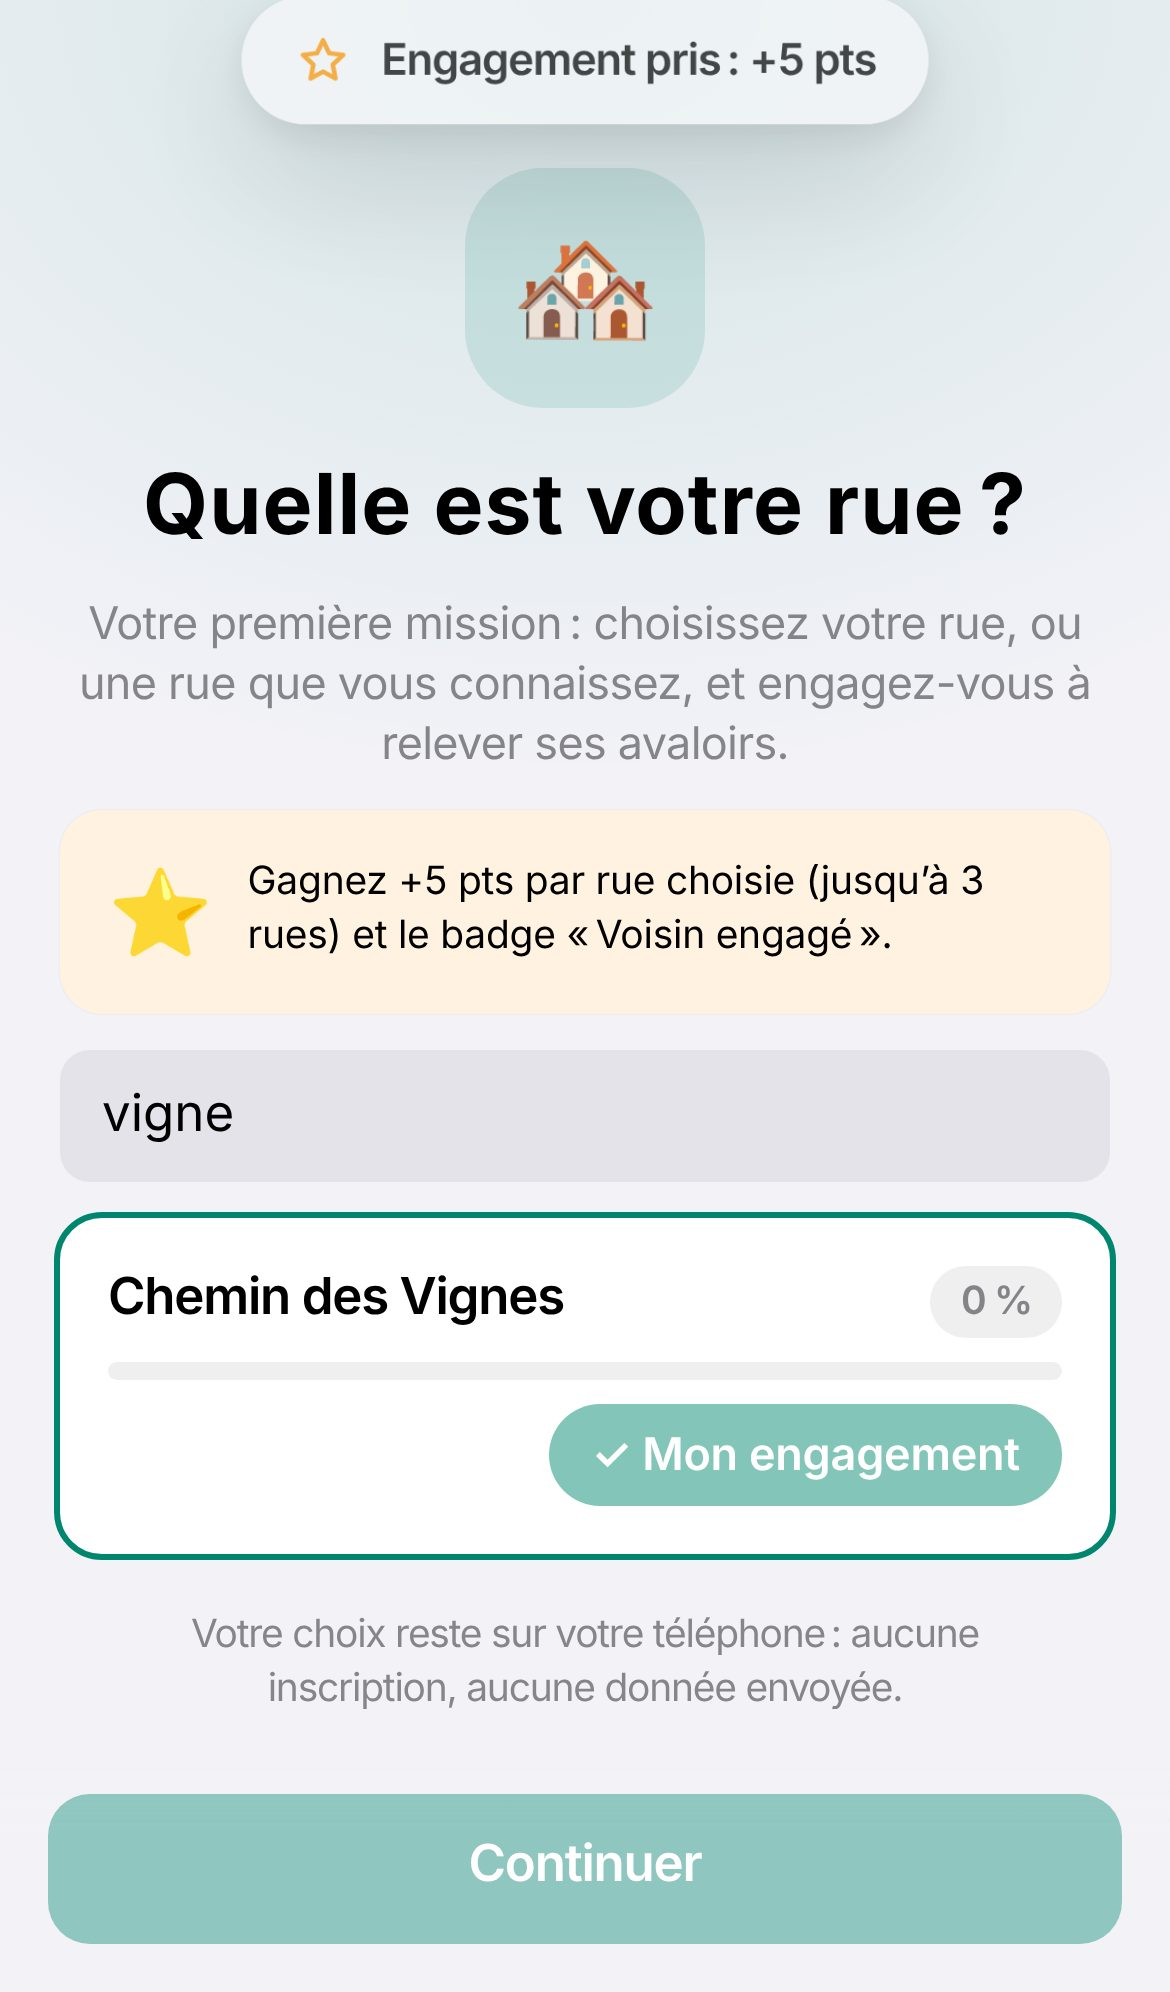
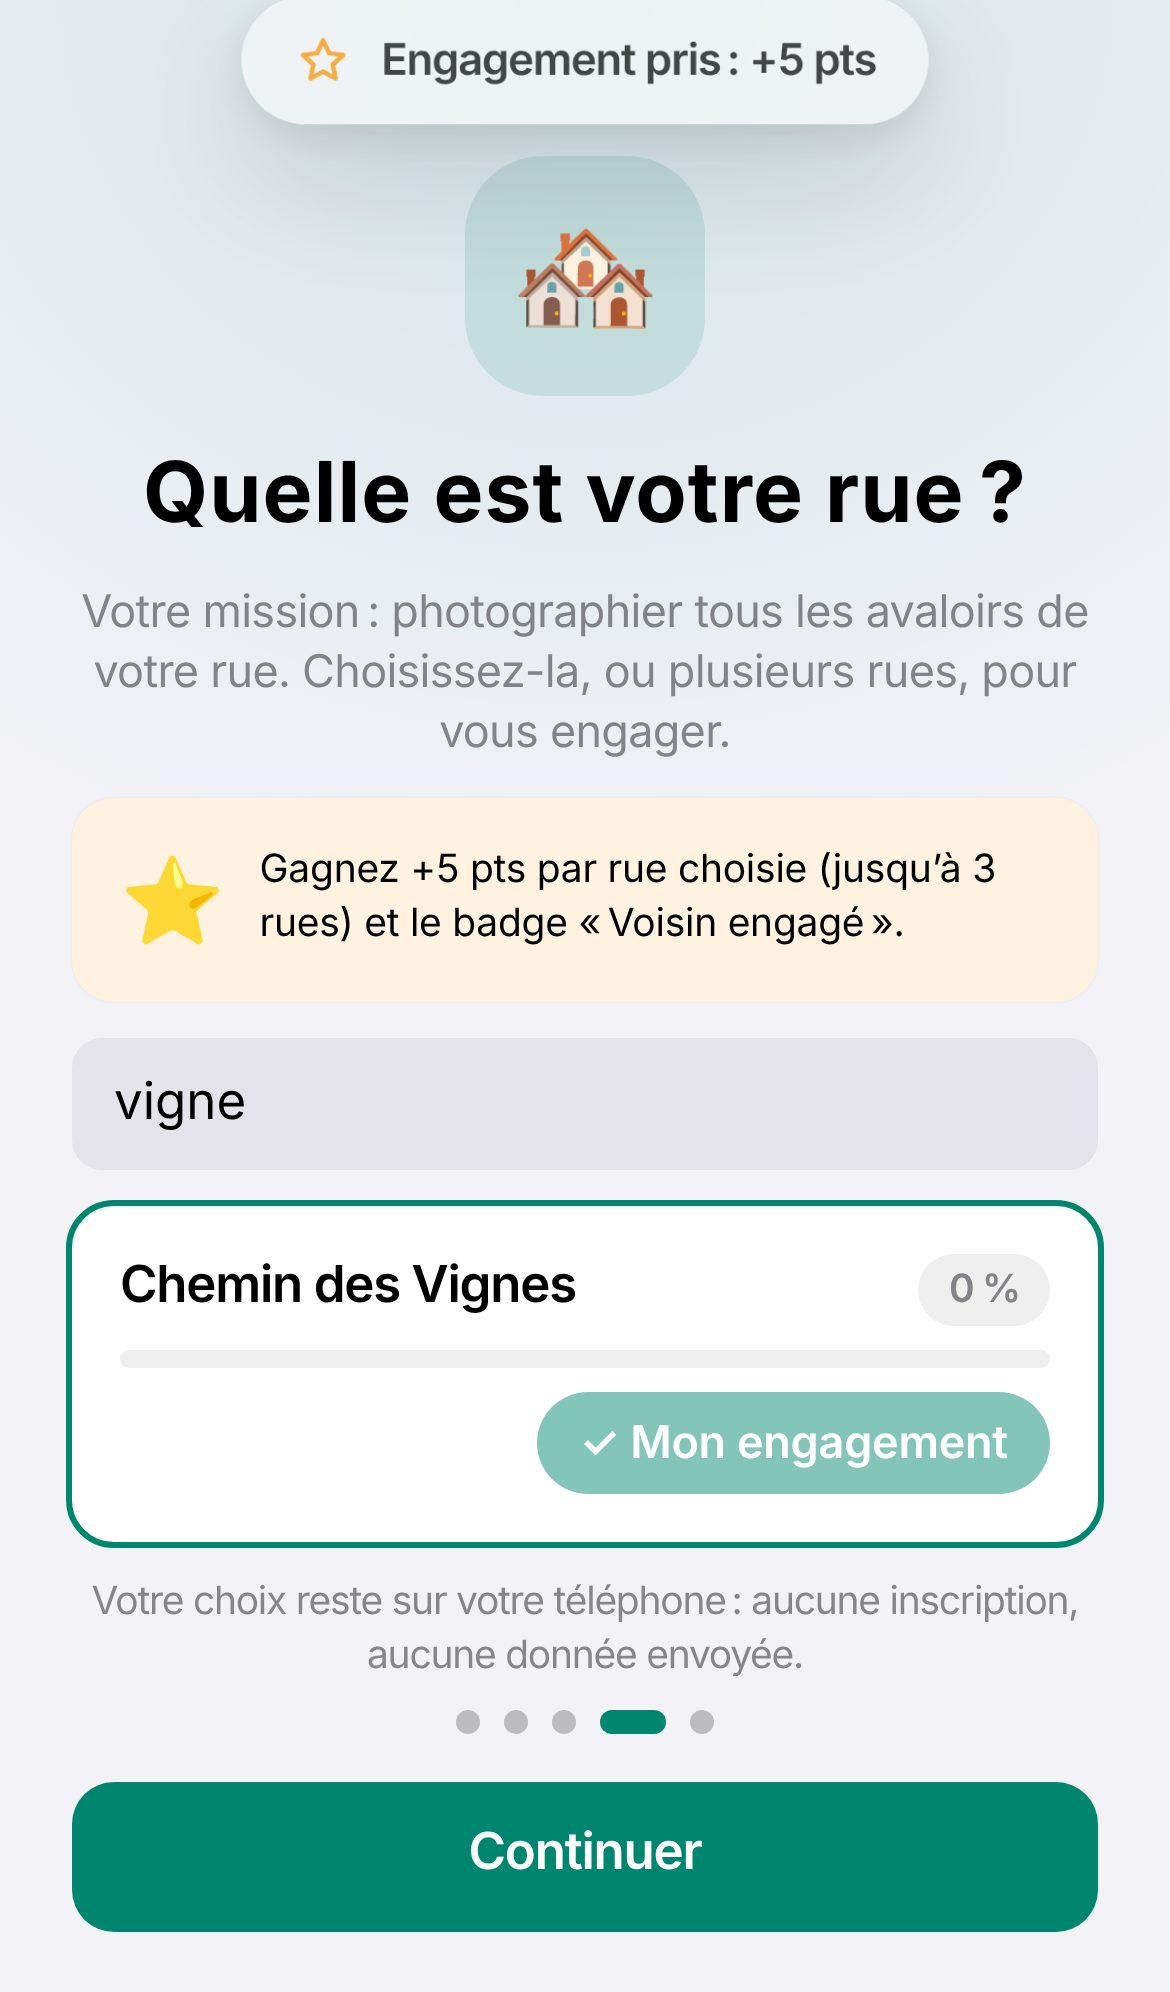
Accueil : l'engagement sur la rue avant les autorisations, mission énoncée directement
Claude-Session: https://claude.ai/code/session_01XJv6nhnWAXTRzL2B87KkeQ

diff --git a/src/screens/Onboarding.tsx b/src/screens/Onboarding.tsx
@@ -7,10 +7,16 @@ import { enableCompass, requestLocationPermission } from '../lib/location';
 import { platform } from '../lib/store';
 import { invitedBy } from '../lib/invite';
 import { DrainCutaway, ExplainMosquito } from './Explainer';
+import { CampaignContent } from './CampaignScreen';
+import { useMyStreets } from '../lib/commitments';
 
 const PAGE_KEY = 'avaloirs.onboardingPage';
-const PAGES = 4;
-const PERMISSIONS_PAGE = 3; // dernière page : le compte OpenStreetMap n'est demandé qu'après le premier avaloir relevé
+// Accueil : le moustique, l'avaloir et LA MISSION, les étapes, [l'engagement sur sa rue], puis les autorisations.
+// L'engagement n'est proposé que si la commune est configurée (liste officielle des rues).
+const HAS_PLEDGE = !!getConfig().commune.insee;
+const PAGES = HAS_PLEDGE ? 5 : 4;
+const PLEDGE_PAGE = HAS_PLEDGE ? 3 : -1;
+const PERMISSIONS_PAGE = PAGES - 1; // dernière page : le compte OpenStreetMap n'est demandé qu'après le premier avaloir relevé
 
 function savedPage(): number {
   try {
@@ -39,6 +45,7 @@ export function Onboarding({ onDone }: { onDone: () => void }) {
       /* ignore */
     }
   }, [page]);
+  const myStreets = useMyStreets();
   const [geo, setGeo] = useState<Perm>('idle');
   const [cam, setCam] = useState<Perm>('idle');
   const [compass, setCompass] = useState<Perm>('idle');
@@ -73,8 +80,8 @@ export function Onboarding({ onDone }: { onDone: () => void }) {
 
   return (
     <div className="onboarding">
-      {page < PERMISSIONS_PAGE && (
-        <button className="btn plain onboarding-skip" onClick={() => goTo(PERMISSIONS_PAGE)}>
+      {page < (HAS_PLEDGE ? PLEDGE_PAGE : PERMISSIONS_PAGE) && (
+        <button className="btn plain onboarding-skip" onClick={() => goTo(HAS_PLEDGE ? PLEDGE_PAGE : PERMISSIONS_PAGE)}>
           {t('onboarding.skip')}
         </button>
       )}
@@ -129,6 +136,12 @@ export function Onboarding({ onDone }: { onDone: () => void }) {
           <p className="footnote secondary center" style={{ marginTop: 14 }}>🏅 {t('onboarding.p3Short')}</p>
         </section>
 
+        {HAS_PLEDGE && (
+          <section className="onboarding-page">
+            <CampaignContent first />
+          </section>
+        )}
+
         <section className="onboarding-page">
           <h1 className="title1 center" style={{ marginTop: 24 }}>{t('onboarding.p4Title')}</h1>
           <p className="subhead secondary center">{t('onboarding.p4Text')}</p>
@@ -171,7 +184,7 @@ export function Onboarding({ onDone }: { onDone: () => void }) {
             else finish();
           }}
         >
-          {page < PERMISSIONS_PAGE ? t('common.continue') : t('onboarding.start')}
+          {page === PLEDGE_PAGE && !myStreets.length ? t('campaign.later') : page < PERMISSIONS_PAGE ? t('common.continue') : t('onboarding.start')}
         </button>
       </div>
     </div>

diff --git a/src/App.tsx b/src/App.tsx
@@ -14,7 +14,6 @@ import { Onboarding } from './screens/Onboarding';
 import { InstallGuide } from './screens/InstallGuide';
 import { AccountWizard, markWizardResume, shouldResumeWizard } from './screens/AccountWizard';
 import { LockedNudge } from './components/LockedReminder';
-import { getConfig } from './lib/config';
 import { InviteScreen } from './screens/InviteScreen';
 import { CampaignScreen } from './screens/CampaignScreen';
 import { consumeCampaignLink } from './lib/invite';
@@ -30,7 +29,6 @@ const TABS: { id: Tab; icon: IconName; label: string }[] = [
 ];
 
 const ONBOARDED_KEY = 'avaloirs.onboarded';
-const PLEDGE_KEY = 'avaloirs.pledgeSeen';
 const INSTALL_SNOOZE_KEY = 'avaloirs.installSnoozeUntil';
 const INSTALL_REFUSALS_KEY = 'avaloirs.installRefusals';
 const DAY = 24 * 3600 * 1000;
@@ -50,17 +48,6 @@ export function App() {
   const [tab, setTab] = useState<Tab>('map');
   const [capturing, setCapturing] = useState(false);
   const [onboarded, setOnboarded] = useState(() => readFlag(ONBOARDED_KEY));
-  // Tunnel du premier lancement : accueil (objectifs), PUIS « Quelle est votre rue ? » (engagement, ignorable).
-  // L'étape n'apparaît qu'à la fin de l'accueil, jamais seule au lancement d'une appli déjà utilisée.
-  const [pledgePending, setPledgePending] = useState(false);
-  const finishPledge = () => {
-    try {
-      localStorage.setItem(PLEDGE_KEY, '1');
-    } catch {
-      /* ignore */
-    }
-    setPledgePending(false);
-  };
   const [install, setInstall] = useState(false);
   const [orphanCode, setOrphanCode] = useState<string | null>(null);
   // Assistant de compte, rouvert automatiquement au retour d'openstreetmap.org.
@@ -85,7 +72,6 @@ export function App() {
       /* ignore */
     }
     setOnboarded(true);
-    if (getConfig().commune.insee && !readFlag(PLEDGE_KEY)) setPledgePending(true);
   };
 
   /**
@@ -129,7 +115,6 @@ export function App() {
   // Lien de campagne (?rues) : ouvre « Mes rues à relever » une fois l'accueil passé.
   useEffect(() => {
     if (onboarded && !capturing && consumeCampaignLink()) {
-      finishPledge();
       setSocial('campaign');
     }
     // eslint-disable-next-line react-hooks/exhaustive-deps
@@ -176,15 +161,13 @@ export function App() {
   const closeCapture = useCallback(() => setCapturing(false), []);
 
   if (orphanCode) return <OrphanCode code={orphanCode} onClose={() => setOrphanCode(null)} />;
-  if (!onboarded) return <Onboarding onDone={finishOnboarding} />;
-  if (pledgePending)
+  if (!onboarded)
     return (
       <>
-        <CampaignScreen first onClose={finishPledge} />
+        <Onboarding onDone={finishOnboarding} />
         <ToastHost />
       </>
     );
-
   return (
     <>
       <main className="app">

diff --git a/src/screens/CampaignScreen.tsx b/src/screens/CampaignScreen.tsx
@@ -17,7 +17,19 @@ type Filter = 'all' | 'todo' | 'mine';
  * « Mes rues à relever » : choisir une ou plusieurs rues de la commune, suivre leur avancement (engagement local).
  * `first` : étape du tout premier lancement (tunnel de gamification) : on cherche sa rue, +points à la clé.
  */
-export function CampaignScreen({ onClose, first = false }: { onClose: () => void; first?: boolean }) {
+export function CampaignScreen({ onClose }: { onClose: () => void }) {
+  return (
+    <div className="wizard-modal" role="dialog" aria-modal="true" aria-label={t('campaign.title')}>
+      <button className="icon-btn wizard-close" onClick={onClose} aria-label={t('common.close')}>
+        <Icon name="close" stroke={2.4} />
+      </button>
+      <CampaignContent />
+    </div>
+  );
+}
+
+/** Contenu de l'écran ; `first` = version du tunnel d'accueil (intégrée à une page, sans fenêtre ni bouton de fermeture). */
+export function CampaignContent({ first = false }: { first?: boolean }) {
   const commune = useCommune();
   const online = useOnline();
   const { osm } = useAuth();
@@ -65,12 +77,7 @@ export function CampaignScreen({ onClose, first = false }: { onClose: () => void
   };
 
   return (
-    <div className="wizard-modal" role="dialog" aria-modal="true" aria-label={t('campaign.title')}>
-      {!first && (
-        <button className="icon-btn wizard-close" onClick={onClose} aria-label={t('common.close')}>
-          <Icon name="close" stroke={2.4} />
-        </button>
-      )}
+    <>
       <div className="wizard">
         <div className="wizard-art" aria-hidden="true" style={{ fontSize: 40 }}>
           🏘
@@ -190,14 +197,7 @@ export function CampaignScreen({ onClose, first = false }: { onClose: () => void
           </button>
         )}
         <p className="section-footer center">{t('campaign.local')}</p>
-        {first && (
-          <div className="sticky-cta">
-            <button className={`btn ${mine.length ? '' : 'plain'}`} onClick={onClose}>
-              {mine.length ? t('campaign.next') : t('campaign.later')}
-            </button>
-          </div>
-        )}
       </div>
-    </div>
+    </>
   );
 }

diff --git a/src/i18n/fr.ts b/src/i18n/fr.ts
@@ -59,7 +59,7 @@ const fr: Dict = {
     drainText: 'C’est la grille, ou l’ouverture dans la bordure, qui avale l’eau de pluie de la rue pour l’envoyer dans les canalisations. Il y en a des centaines dans une commune, et vous passez devant sans les voir.',
     waterTitle: 'Quand l’eau stagne, les larves prospèrent',
     waterText: 'Sous la grille, le fond d’un avaloir garde souvent de l’eau pendant des semaines : c’est une pouponnière idéale pour le moustique tigre. La mairie peut traiter chaque avaloir avec un larvicide, mais elle doit d’abord savoir où ils sont tous.',
-    mission: 'Votre mission : les repérer, un par un.',
+    mission: 'Votre mission : photographier les avaloirs de votre rue, un par un.',
     cutawayAlt: 'Coupe d’un avaloir : la pluie descend par la grille, le fond du regard reste en eau et abrite des larves de moustique.',
     grate: 'Grille',
     water: 'Eau stagnante',
@@ -535,7 +535,7 @@ const fr: Dict = {
 
   campaign: {
     firstTitle: 'Quelle est votre rue ?',
-    firstIntro: 'Pour freiner le moustique tigre, il faut recenser tous les avaloirs de la commune. Votre première mission : choisissez votre rue, ou une rue que vous connaissez, et engagez-vous à relever ses avaloirs.',
+    firstIntro: 'Votre mission : photographier tous les avaloirs de votre rue. Choisissez-la, ou plusieurs rues, pour vous engager.',
     reward: 'Gagnez +{points} pts par rue choisie (jusqu’à {max} rues) et le badge « Voisin engagé ».',
     earned: 'Engagement pris : +{points} pts',
     typeHint: 'Tapez le nom de votre rue pour la trouver.',

diff --git a/src/i18n/en.ts b/src/i18n/en.ts
@@ -59,7 +59,7 @@ const en: Dict = {
     drainText: 'It is the grate, or the opening in the kerb, that swallows rainwater from the street and sends it into the pipes. A town has hundreds of them, and you walk past without noticing.',
     waterTitle: 'When water stagnates, larvae thrive',
     waterText: 'Under the grate, the bottom of a drain often keeps water for weeks: an ideal nursery for tiger mosquitoes. The town hall can treat each drain with a larvicide, but first it has to know where they all are.',
-    mission: 'Your mission: spot them, one by one.',
+    mission: 'Your mission: photograph the storm drains on your street, one by one.',
     cutawayAlt: 'Cross-section of a drain: rain flows down through the grate, the bottom stays full of water and shelters mosquito larvae.',
     grate: 'Grate',
     water: 'Standing water',
@@ -535,7 +535,7 @@ const en: Dict = {
 
   campaign: {
     firstTitle: 'What’s your street?',
-    firstIntro: 'To curb the tiger mosquito, every storm drain in town has to be mapped. Your first mission: pick your street, or one you know, and commit to mapping its storm drains.',
+    firstIntro: 'Your mission: photograph every storm drain on your street. Pick it, or several streets, to commit.',
     reward: 'Earn +{points} pts per street (up to {max} streets) and the “Committed neighbour” badge.',
     earned: 'Commitment made: +{points} pts',
     typeHint: 'Type your street name to find it.',

diff --git a/src/styles/app.css b/src/styles/app.css
@@ -1732,7 +1732,13 @@
 }
 .mission {
   font-weight: 700;
+  font-size: 1.1rem;
+  line-height: 1.3;
   color: var(--accent);
+  background: var(--accent-tint);
+  border-radius: 14px;
+  padding: 12px 14px;
+  margin-top: 6px;
 }
 
 /* --- « Pourquoi se connecter ? » ----------------------------------------- */

diff --git a/docs/campagne-rues.md b/docs/campagne-rues.md
@@ -12,9 +12,12 @@ Objectif : inciter les habitants à relever les avaloirs d'une ou plusieurs rues
 
 ## Dans le tunnel du premier lancement
 
-- Après l'accueil (4 pages), un écran **« Quelle est votre rue ? »** propose de choisir sa rue (recherche par nom) : **+5 points par rue** (jusqu'à 3 rues) et le badge **« Voisin engagé »**. Il est facultatif (« Plus tard »).
-- Si la personne l'a ignoré, une carte « Et si vous releviez toute votre rue ? » revient sur l'écran de félicitations après le **1er et le 3e avaloir**.
-- L'étape n'apparaît qu'à la fin de l'accueil (donc après les explications sur les objectifs), une seule fois, et jamais seule au lancement d'une appli déjà utilisée (ces personnes reçoivent les cartes de rappel après leurs avaloirs).
+Accueil en 5 pages : 1) le moustique tigre, 2) « Un avaloir, c'est quoi ? » avec **LA MISSION** en évidence (« Votre mission : photographier les avaloirs de votre rue, un par un. »), 3) les étapes d'un relevé, 4) **« Quelle est votre rue ? »** (engagement), 5) les autorisations (localisation, appareil photo).
+
+- L'engagement arrive donc après les explications sur les objectifs et **avant** les autorisations. On cherche sa rue par son nom ; **+5 points par rue** (jusqu'à 3 rues) et le badge **« Voisin engagé »**. Facultatif : tant qu'aucune rue n'est choisie, le bouton de la page indique « Plus tard ».
+- « Passer » dans l'accueil mène directement à cette page d'engagement (puis aux autorisations).
+- Si la personne n'a pas choisi de rue, une carte « Et si vous releviez toute votre rue ? » revient sur l'écran de félicitations après le **1er et le 3e avaloir**.
+- Cette page n'existe que si la commune est configurée (`commune.insee` dans `public/config.js`) ; sinon l'accueil compte 4 pages.
 
 ## Communication sur les réseaux
 
